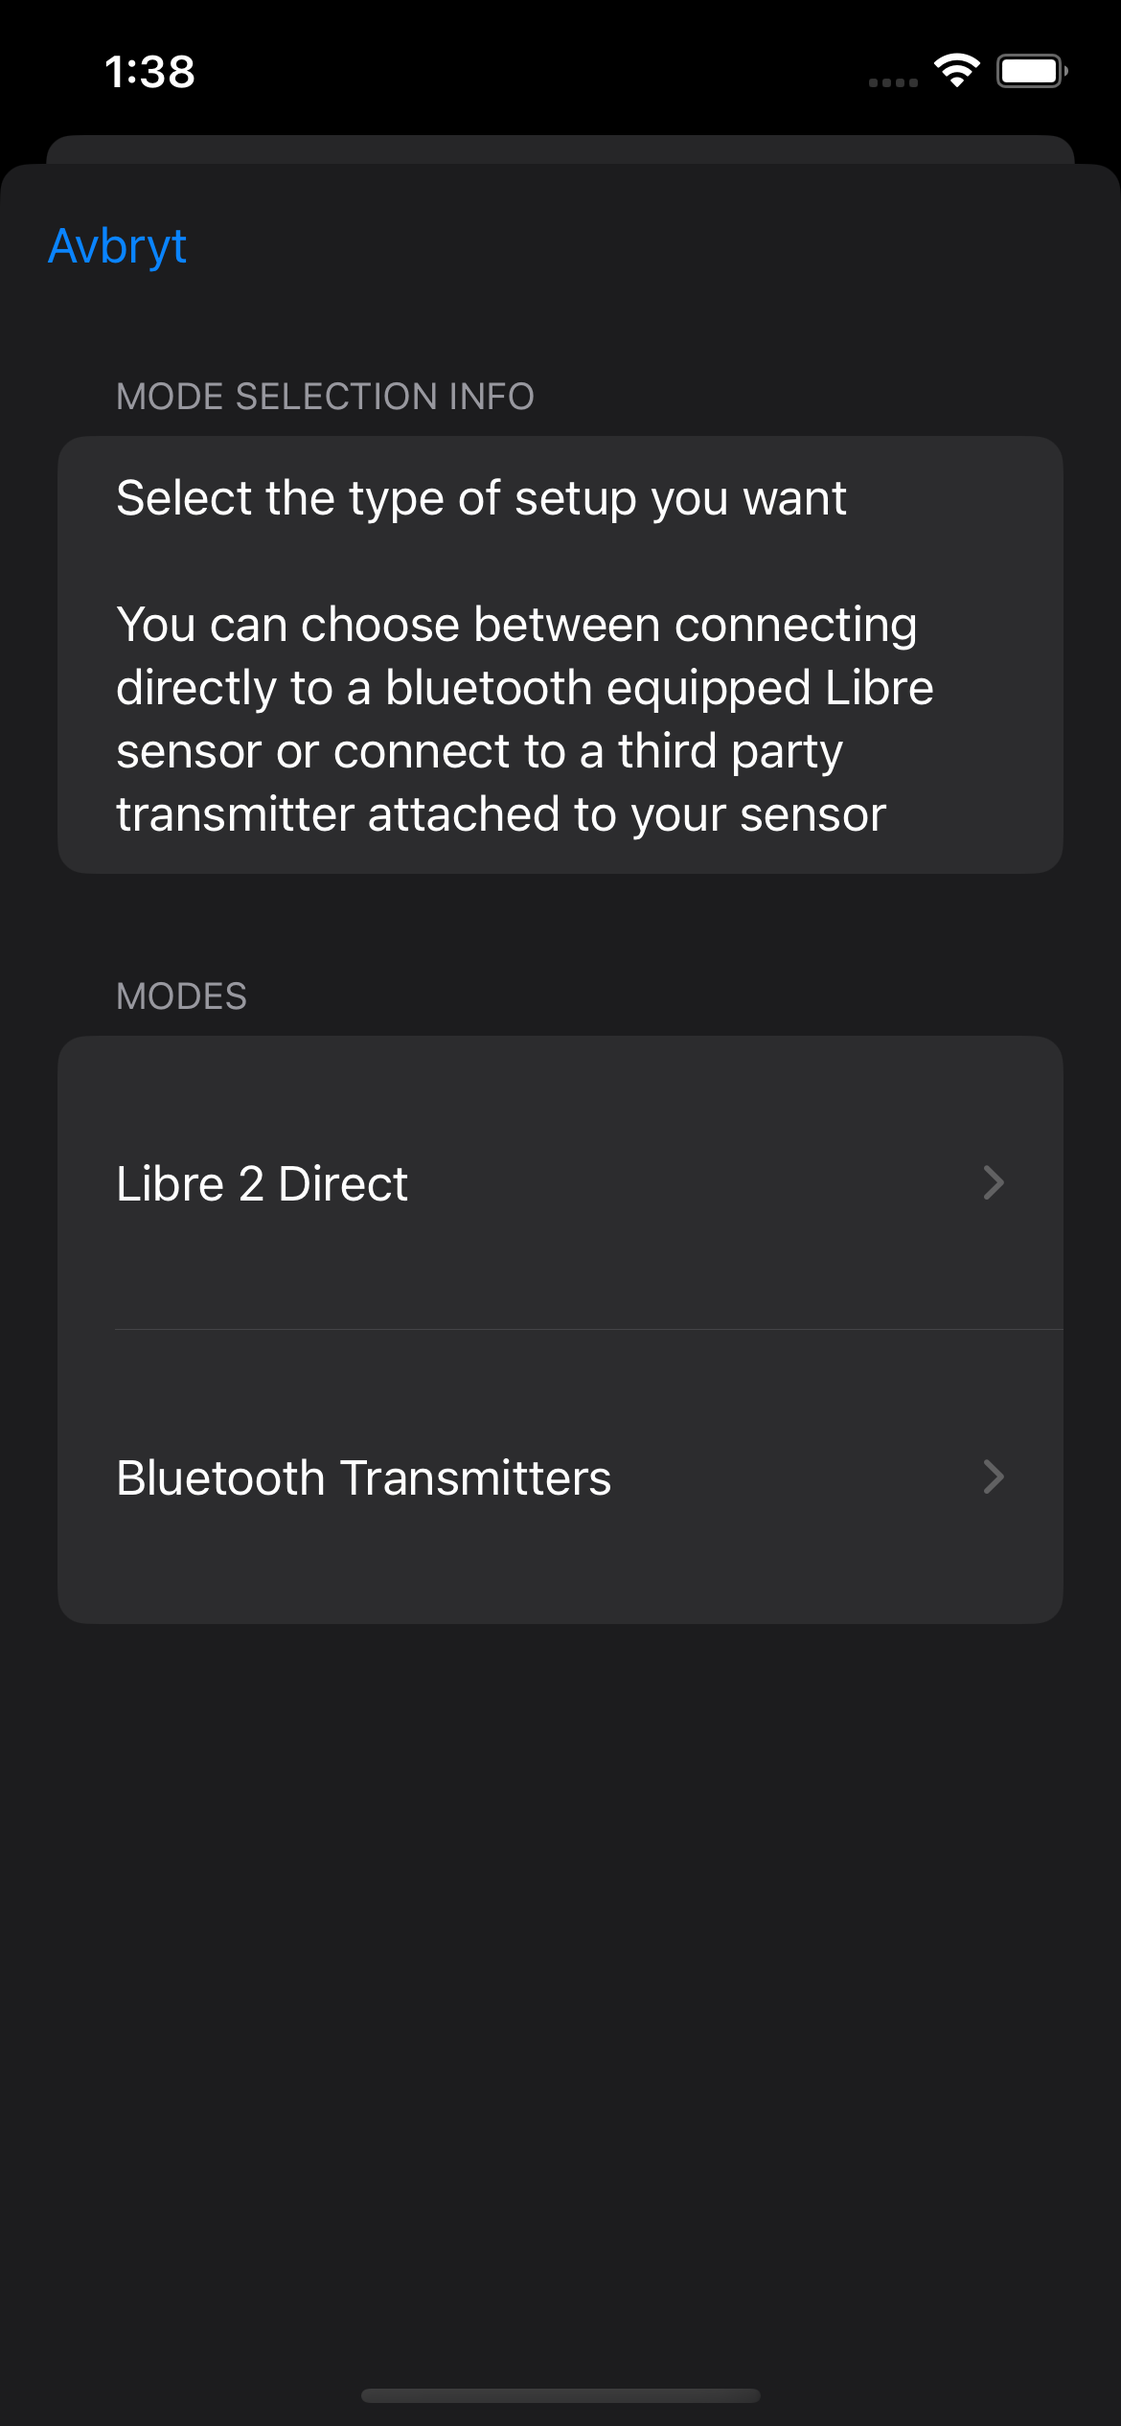
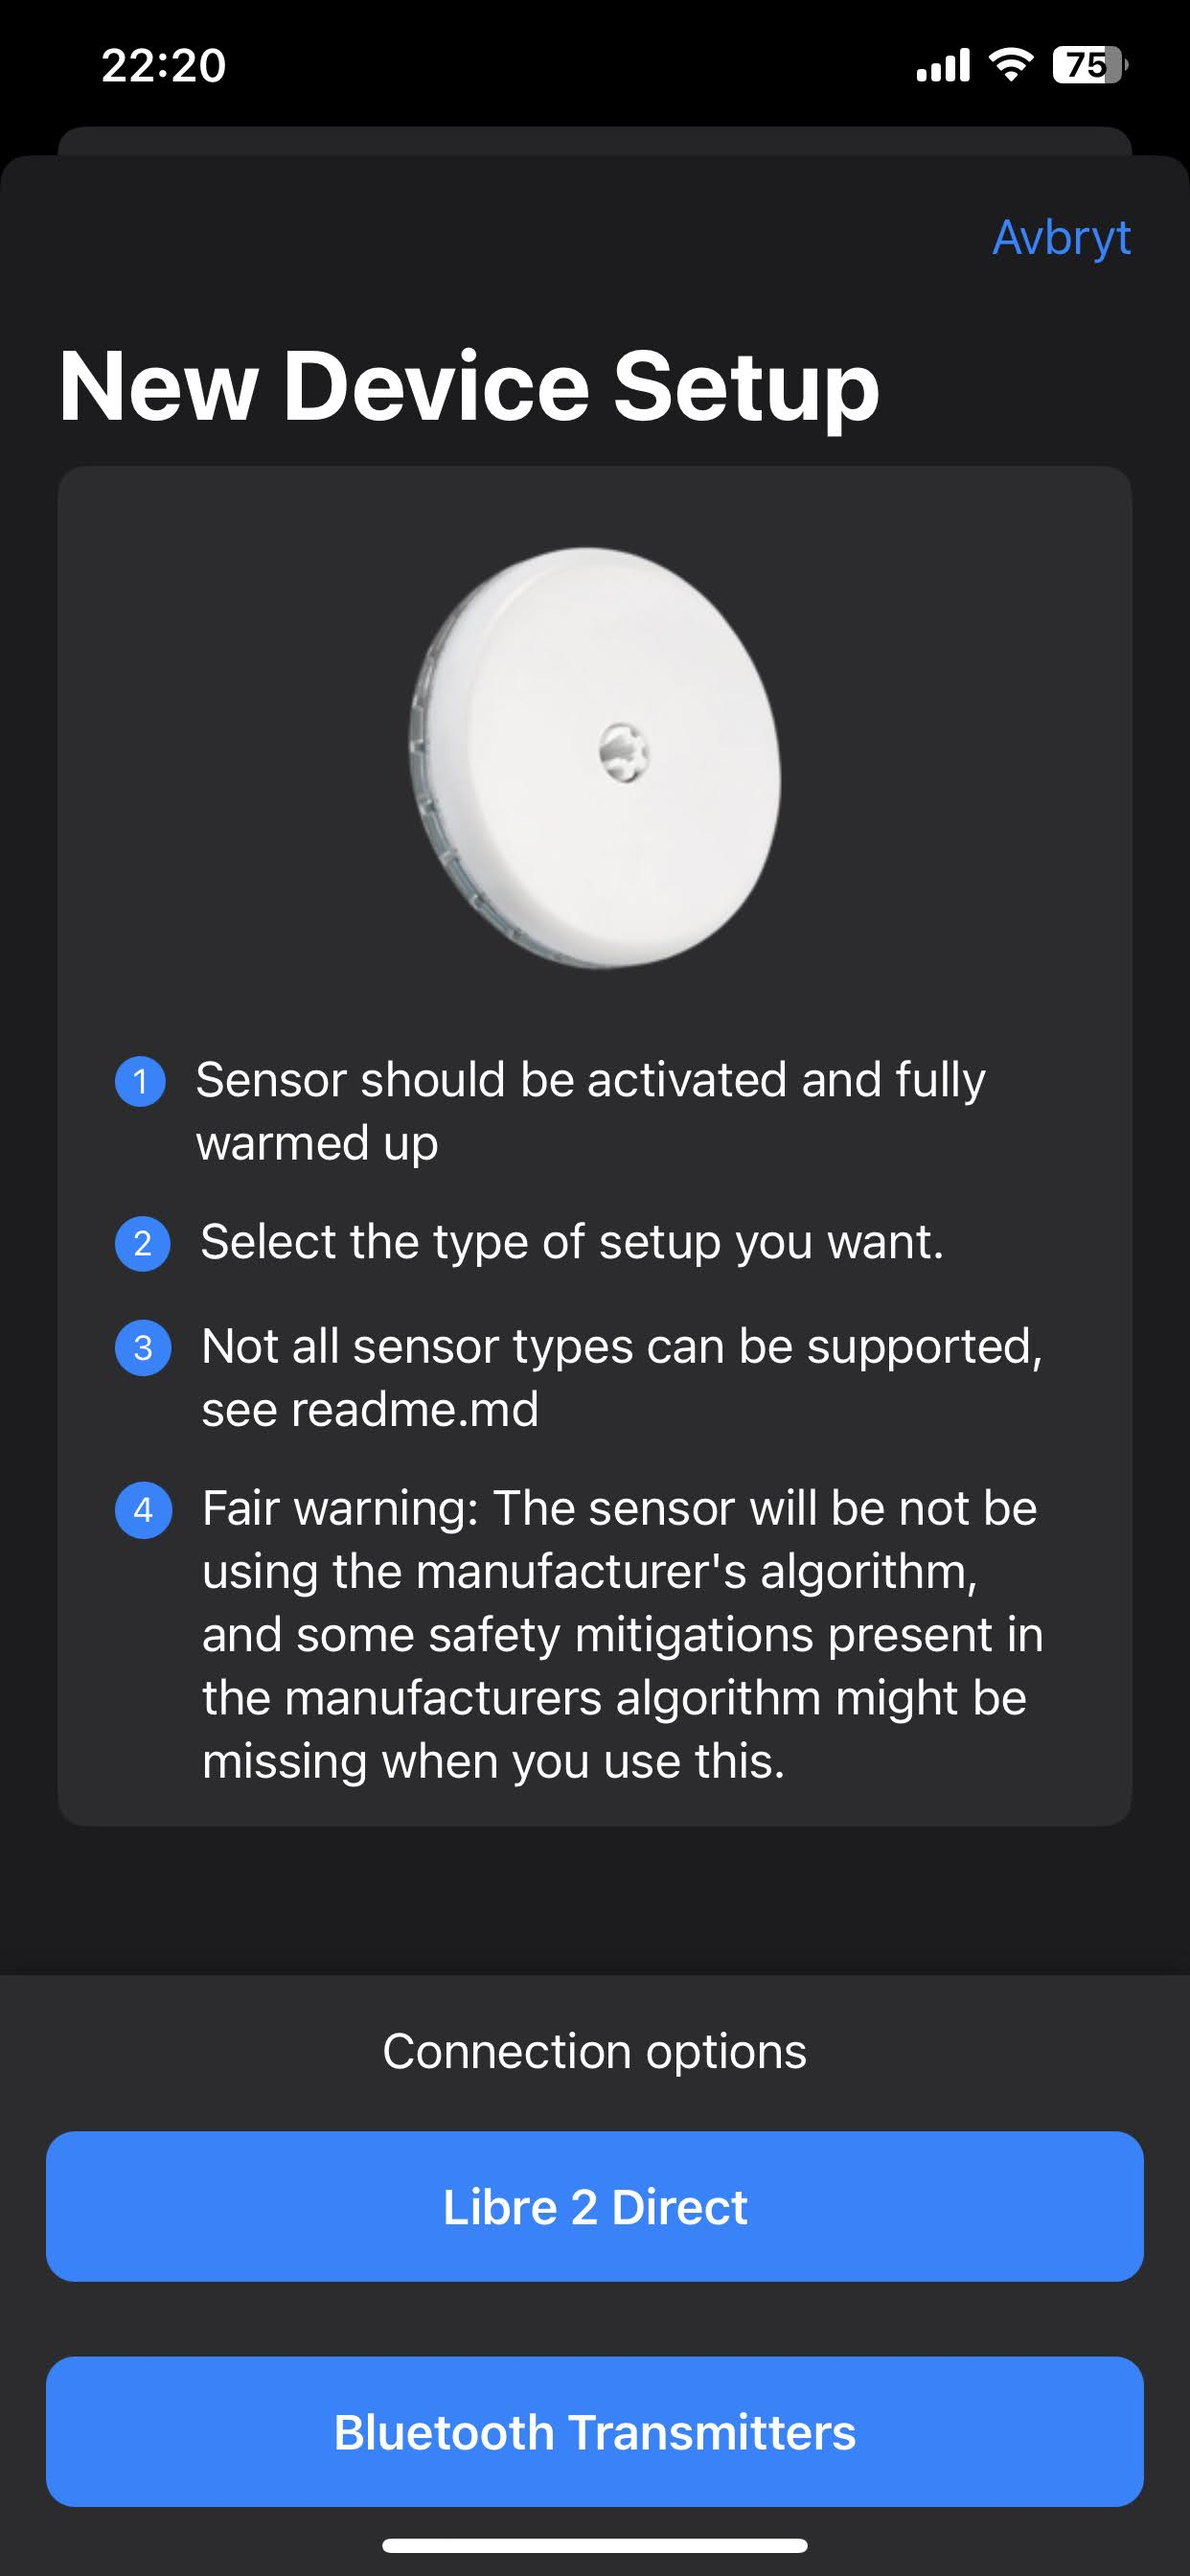
gui and screenshots tweaks

diff --git a/LibreTransmitterUI/Views/Setup/AuthView.swift b/LibreTransmitterUI/Views/Setup/AuthView.swift
@@ -35,7 +35,7 @@ struct AuthView: View {
             if isAuthenticated {
                 ProgressIndicatorView(state: .completed)
                 Text(LocalizedString("Authenticated", comment: "Text confirming user is authenticated in AuthView"))
-                    .padding([.top, .horizontal])
+                    
                     .transition(AnyTransition.opacity.combined(with: .move(edge: .bottom)))
                 NavigationLink(destination: ModeSelectionView(cancelNotifier: cancelNotifier, saveNotifier: saveNotifier), isActive: $isNavigationActive) {
                     Button(action: {
@@ -115,7 +115,7 @@ struct AuthView: View {
     var body: some View {
         
         GuidePage(content: {
-            VStack(alignment: .center, spacing: 30) {
+            VStack(alignment: .center, spacing: 24) {
                 getLeadingImage()
                 
                 HStack {
@@ -128,13 +128,13 @@ struct AuthView: View {
                 Spacer()
   
             }
-            .padding(.vertical, 16)
+            .padding(.vertical, 8)
 
         }) {
-            VStack(spacing: 10) {
+            VStack {
                 buttonSection
-                .padding()
             }
+            .padding()
         }
         
         .navigationBarTitle("New Device Setup")

diff --git a/LibreTransmitterUI/Views/Setup/Libre2DirectSetup.swift b/LibreTransmitterUI/Views/Setup/Libre2DirectSetup.swift
@@ -142,6 +142,7 @@ struct Libre2DirectSetup: View {
                 .actionButtonStyle(.primary)
             }.padding()
         }
+        .navigationTitle("Libre 2 Setup")
         .navigationBarBackButtonHidden(true)
         .navigationBarItems(leading: cancelButton)  // the pair button does the save process for us! //, trailing: saveButton)
         .onReceive(service.publisher, perform: receivePairingInfo)

diff --git a/LibreTransmitterUI/Views/Setup/ModeSelectionView.swift b/LibreTransmitterUI/Views/Setup/ModeSelectionView.swift
@@ -66,7 +66,7 @@ struct ModeSelectionView: View {
             }.padding()
         }
         
-        .navigationBarTitle("New Device Setup")
+        .navigationBarTitle("New Device Setup", displayMode: .large)
         .navigationBarItems(trailing: cancelButton)
         .navigationBarBackButtonHidden(true)
     }

diff --git a/LibreTransmitterUI/Views/Settings/SettingsView.swift b/LibreTransmitterUI/Views/Settings/SettingsView.swift
@@ -134,7 +134,7 @@ struct SettingsView: View {
                     doneButton
                 }
             }
-            .navigationTitle("Libre bluetooth")
+            .navigationTitle("Libre Bluetooth")
     }
 
     var snoozeSection: some View {
